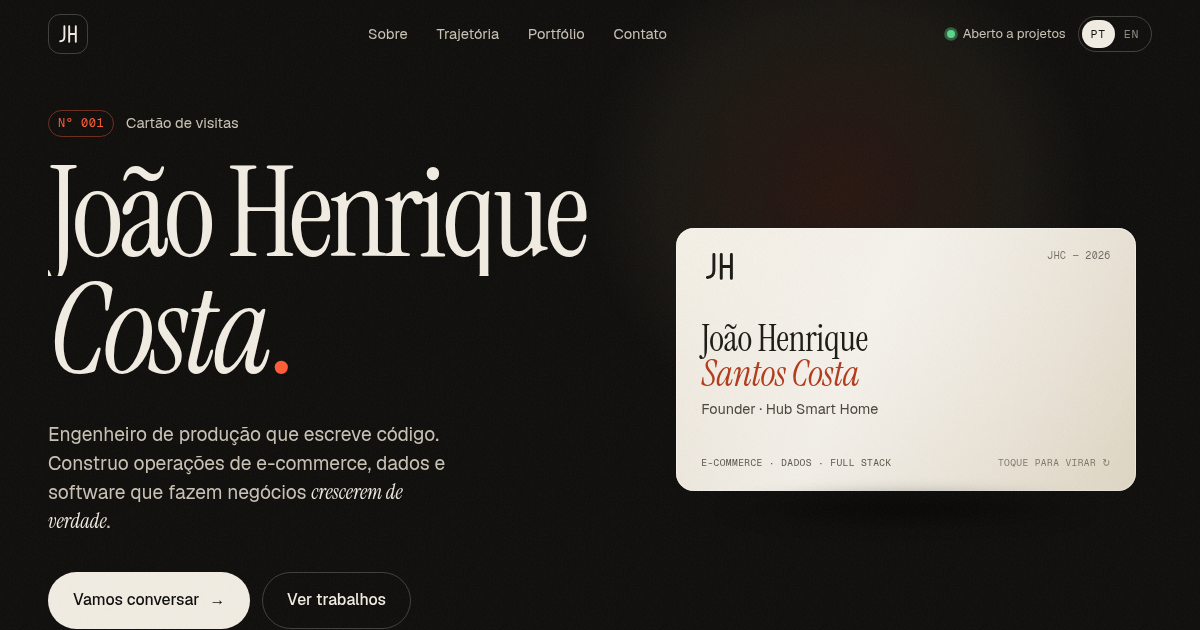
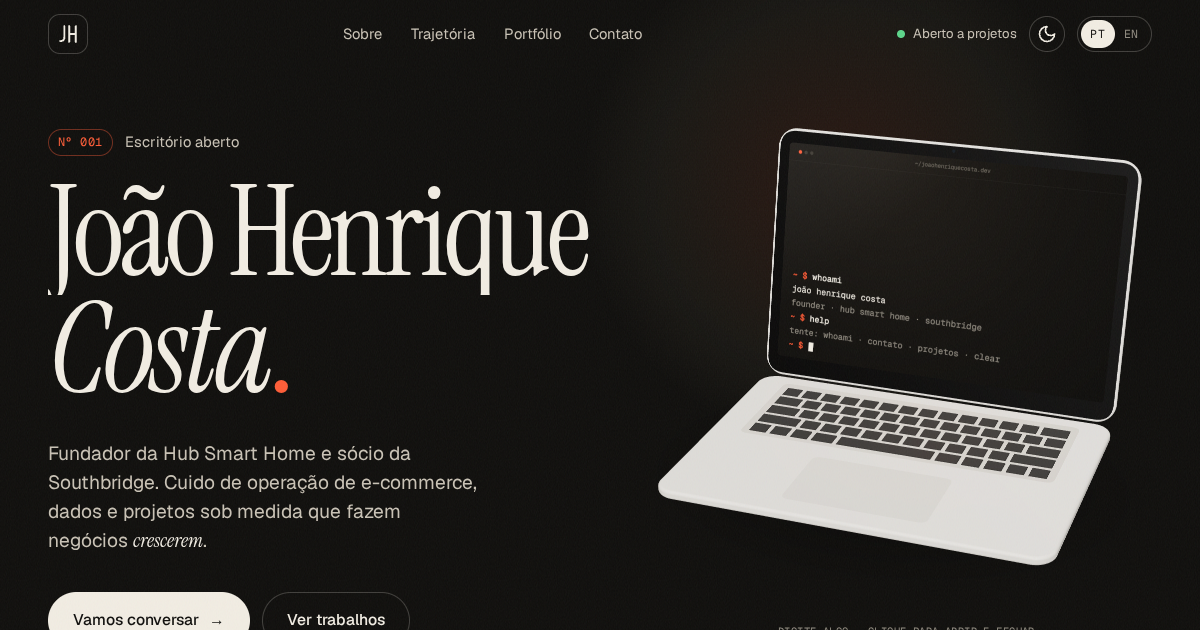
chore: preview de link com o hero novo (notebook) e descrição atualizada

diff --git a/index.html b/index.html
@@ -4,7 +4,7 @@
   <meta charset="utf-8" />
   <meta name="viewport" content="width=device-width, initial-scale=1, viewport-fit=cover" />
   <title>João Henrique Costa</title>
-  <meta name="description" content="João Henrique Costa — fundador da Hub Smart Home e sócio da Southbridge Group. E-commerce, operação e dados." />
+  <meta name="description" content="João Henrique Costa — fundador da Hub Smart Home e sócio da Southbridge. Operação de e-commerce, dados e projetos sob medida." />
   <script src="/theme.js" data-key="jh-theme" data-light="#f3eee5" data-dark="#0d0c0a"></script>
   <meta name="theme-color" content="#0d0c0a" />
   <meta name="color-scheme" content="dark light" />
@@ -13,9 +13,9 @@
   <link rel="icon" href="/favicon.svg" type="image/svg+xml" />
   <meta property="og:type" content="profile" />
   <meta property="og:title" content="João Henrique Costa" />
-  <meta property="og:description" content="Fundador da Hub Smart Home e sócio da Southbridge Group. E-commerce, operação e dados." />
+  <meta property="og:description" content="Fundador da Hub Smart Home e sócio da Southbridge. Operação de e-commerce, dados e projetos sob medida." />
   <meta property="og:url" content="https://joaohenriquecosta.dev/" />
-  <meta property="og:image" content="https://joaohenriquecosta.dev/og.png" />
+  <meta property="og:image" content="https://joaohenriquecosta.dev/og.png?v=2" />
   <meta name="twitter:card" content="summary_large_image" />
   <script type="application/ld+json">
   {"@context":"https://schema.org","@type":"Person","name":"João Henrique Santos Costa","url":"https://joaohenriquecosta.dev","email":"mailto:contato@joaohenriquecosta.dev","jobTitle":"Founder","worksFor":{"@type":"Organization","name":"Hub Smart Home","url":"https://www.hubsmarthome.com.br"},"alumniOf":{"@type":"CollegeOrUniversity","name":"Escola de Engenharia de São Carlos — USP"},"address":{"@type":"PostalAddress","addressLocality":"São Carlos","addressRegion":"SP","addressCountry":"BR"},"sameAs":["https://www.linkedin.com/in/joaohenrique-costa","https://github.com/joaohenriquecosta"]}
